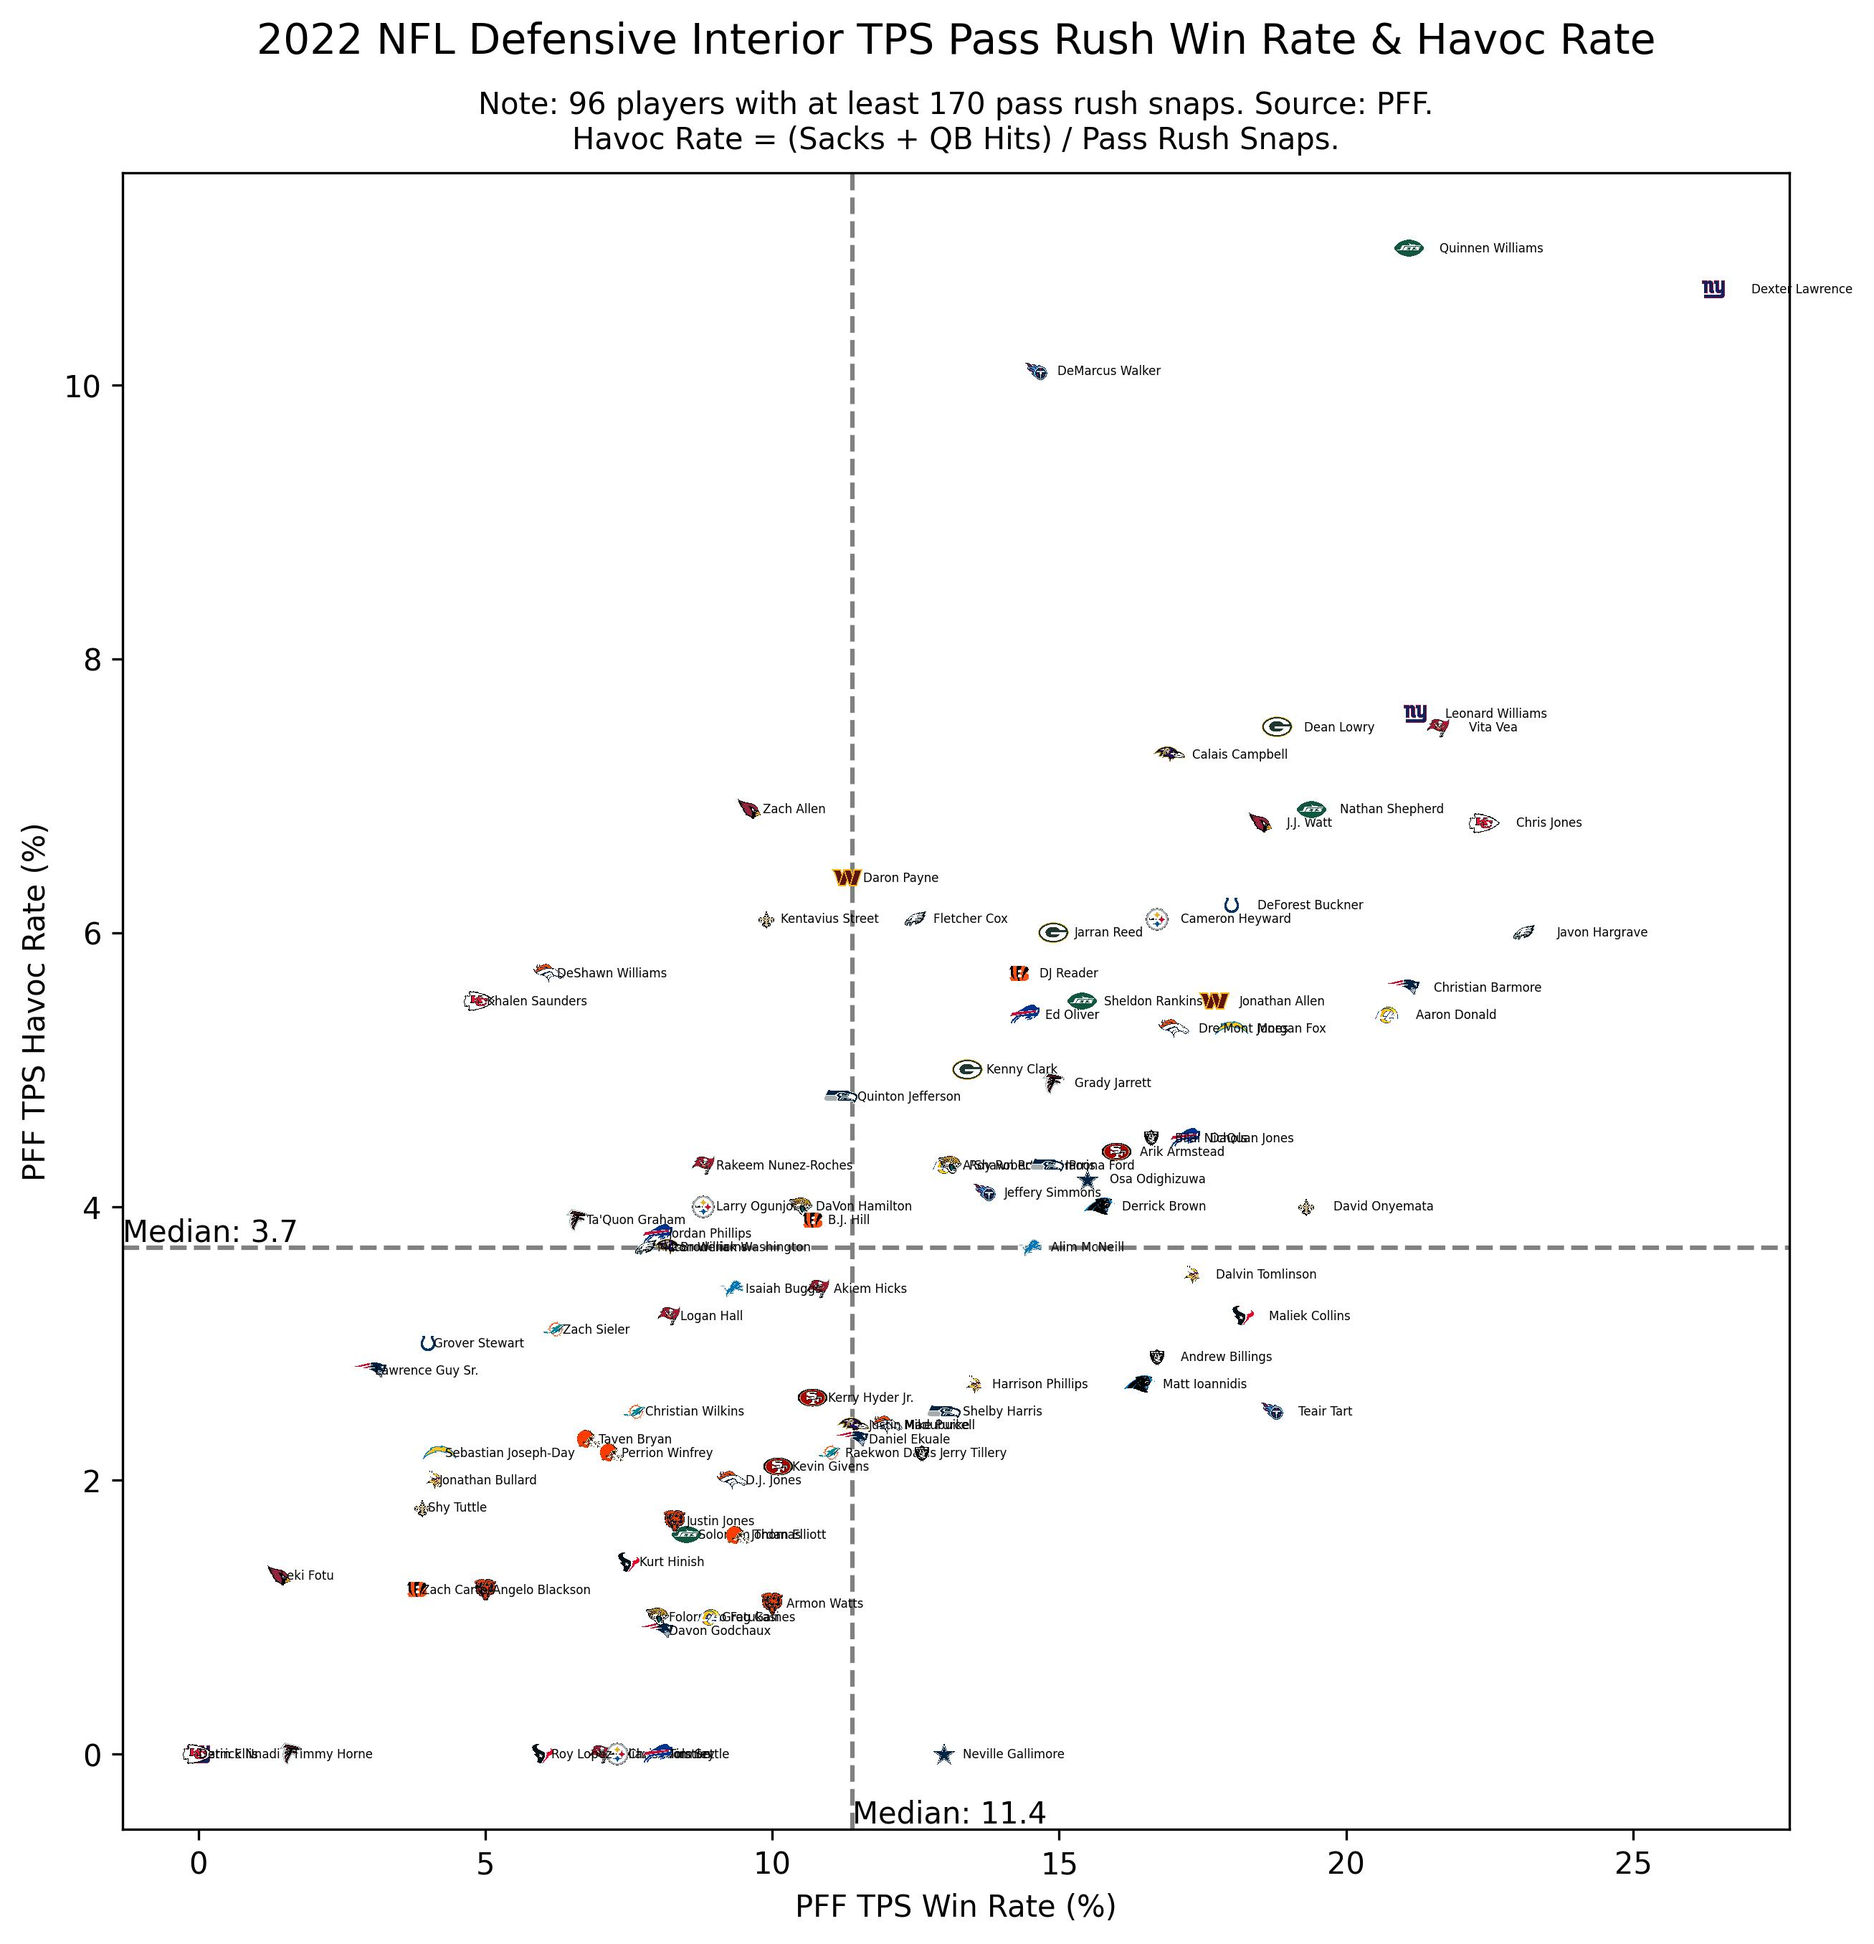
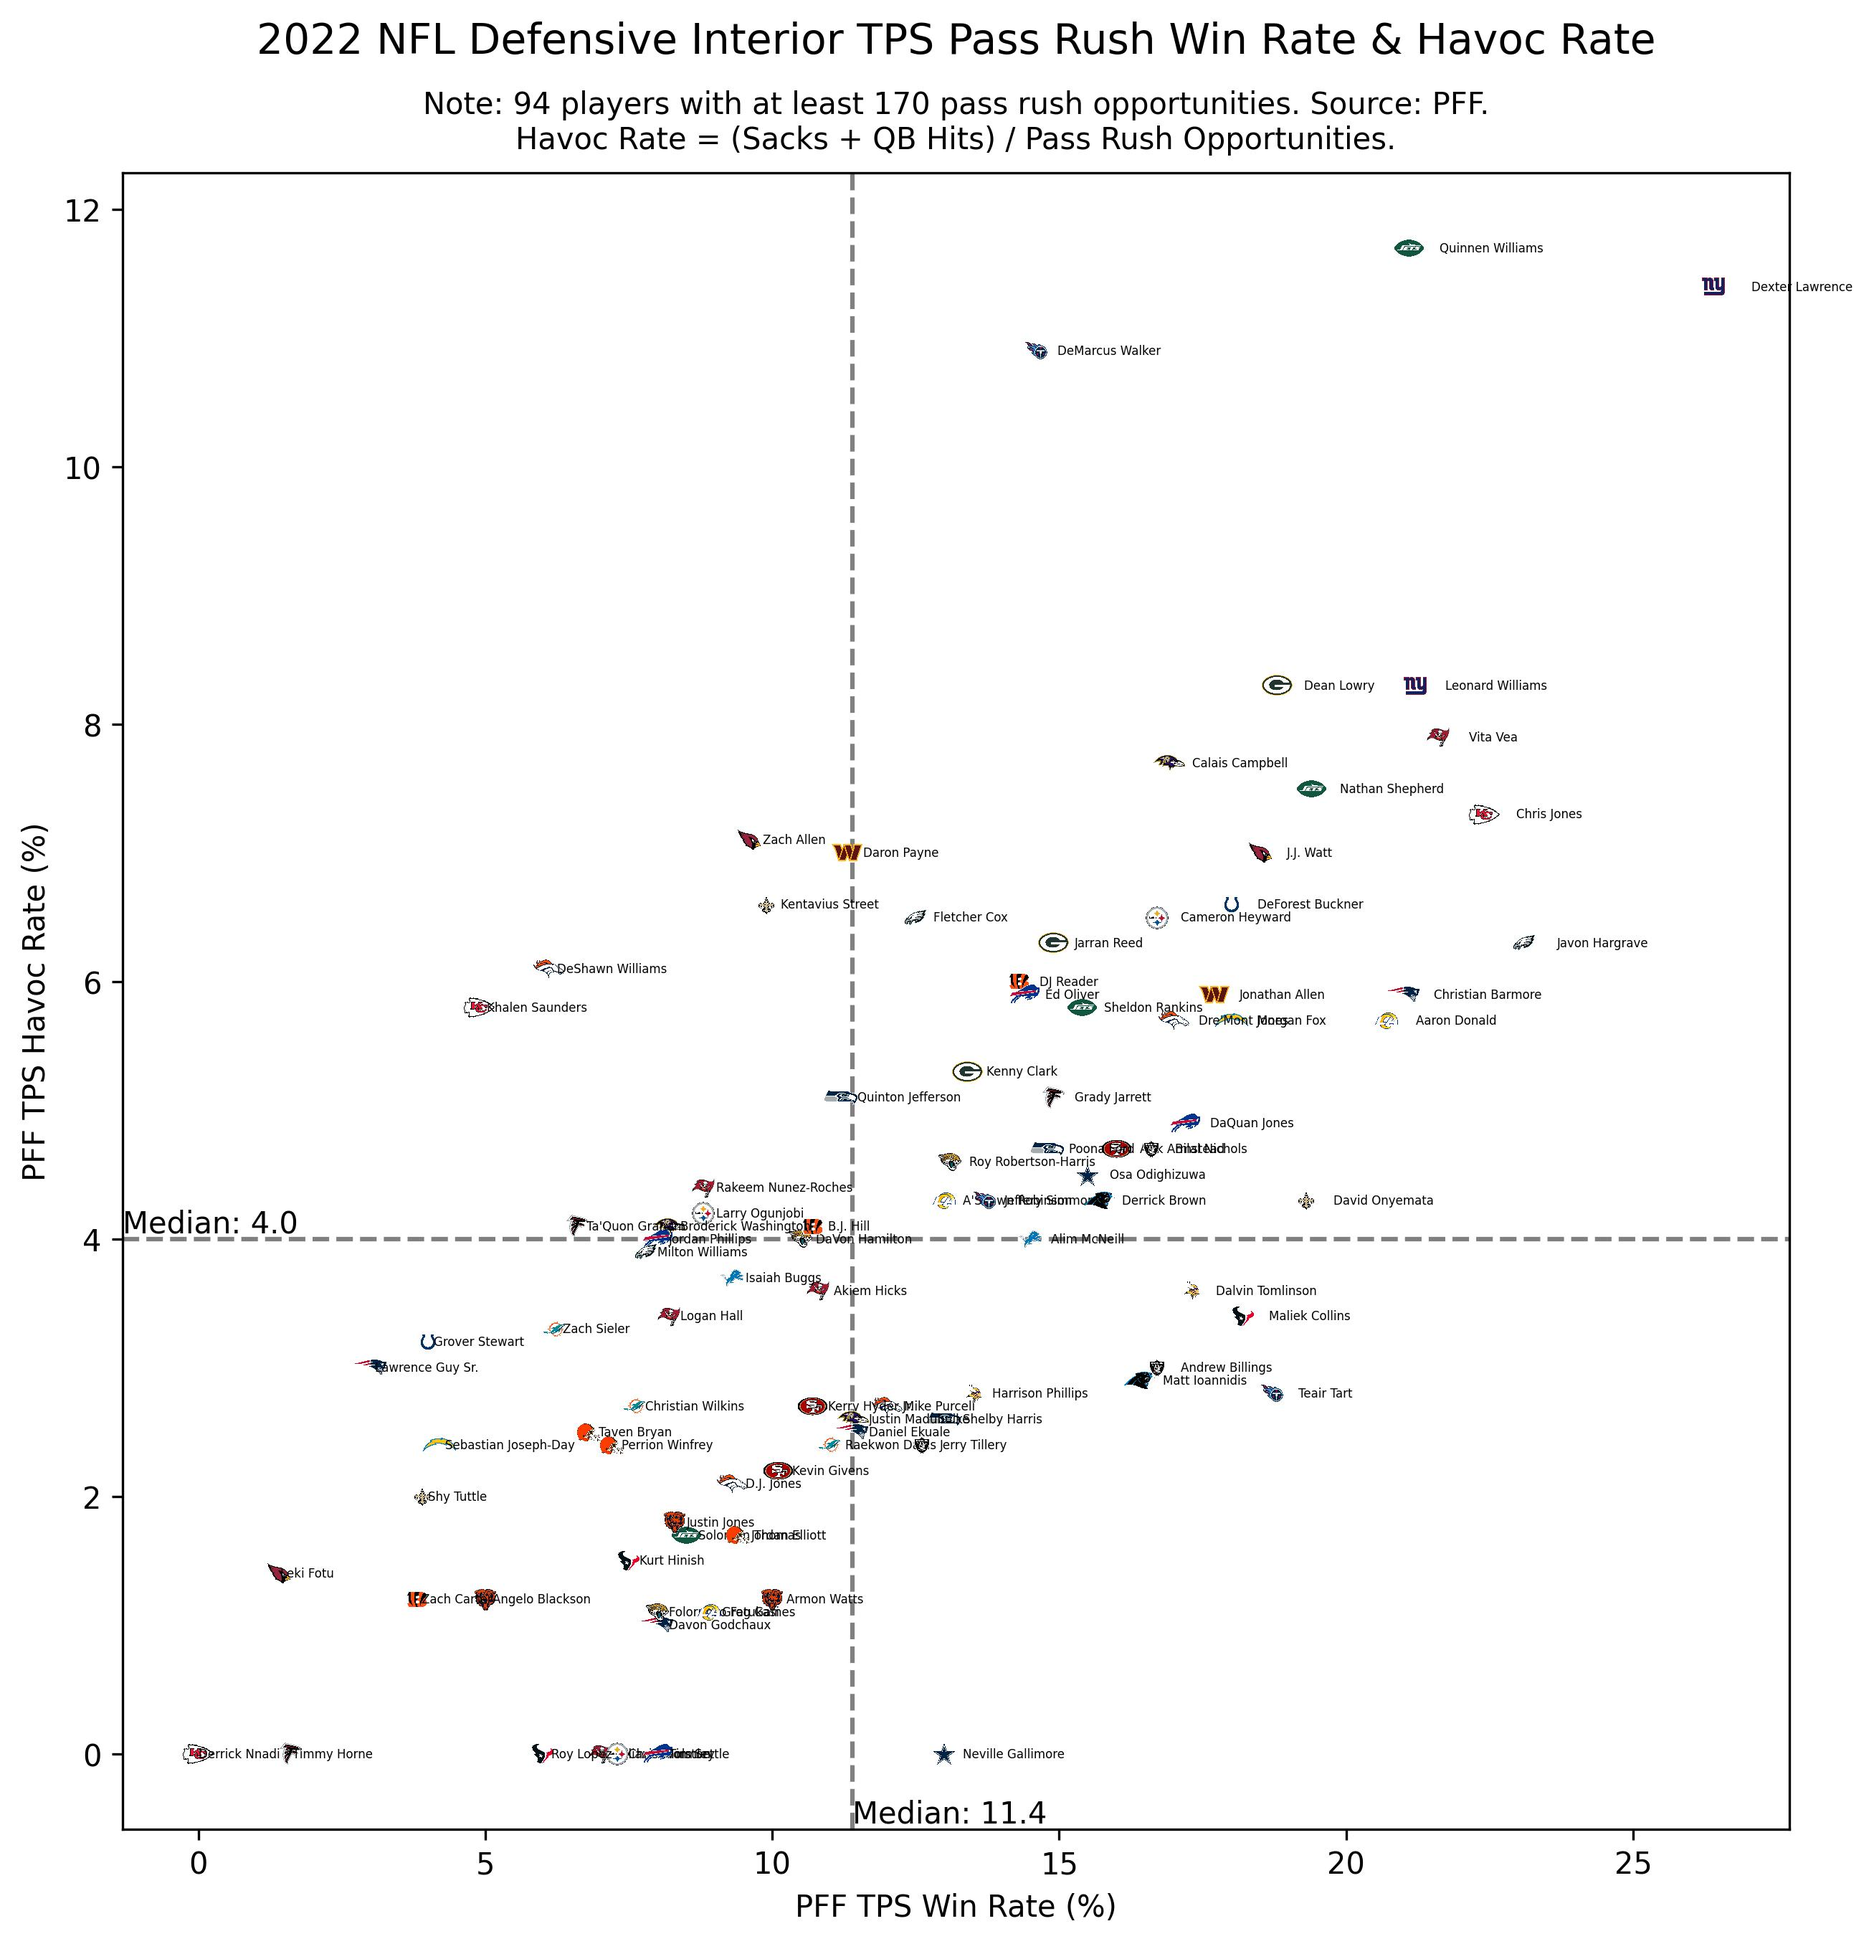
Switched to pass rush opps as denominator.

diff --git a/preprocessing/front_7.py b/preprocessing/front_7.py
@@ -18,23 +18,23 @@ def preprocess_front_7(season: int):
         positional_df = pass_rush_df[pass_rush_df['Position'] == position]
 
         positional_df['Havoc'] = positional_df['Sacks'] + positional_df['Hits']
-        positional_df['Havoc Rate'] = positional_df['Havoc'] / positional_df['PR Snaps']
+        positional_df['Havoc Rate'] = positional_df['Havoc'] / positional_df['PR Opp']
         positional_df['Havoc Rate'].fillna(inplace=True, value=0)
         positional_df['Havoc Rate'] *= 100
         positional_df['Havoc Rate'] = positional_df['Havoc Rate'].round(1)
 
-        positional_df['Pressure Rate'] = positional_df['Pressures'] / positional_df['PR Snaps']
+        positional_df['Pressure Rate'] = positional_df['Pressures'] / positional_df['PR Opp']
         positional_df['Pressure Rate'].fillna(inplace=True, value=0)
         positional_df['Pressure Rate'] *= 100
         positional_df['Pressure Rate'] = positional_df['Pressure Rate'].round(1)
 
         positional_df['TPS Havoc'] = positional_df['TPS Sacks'] + positional_df['TPS Hits']
-        positional_df['TPS Havoc Rate'] = positional_df['TPS Havoc'] / positional_df['TPS PR Snaps']
+        positional_df['TPS Havoc Rate'] = positional_df['TPS Havoc'] / positional_df['TPS PR Opp']
         positional_df['TPS Havoc Rate'].fillna(inplace=True, value=0)
         positional_df['TPS Havoc Rate'] *= 100
         positional_df['TPS Havoc Rate'] = positional_df['TPS Havoc Rate'].round(1)
 
-        positional_df['TPS Pressure Rate'] = positional_df['TPS Pressures'] / positional_df['TPS PR Snaps']
+        positional_df['TPS Pressure Rate'] = positional_df['TPS Pressures'] / positional_df['TPS PR Opp']
         positional_df['TPS Pressure Rate'].fillna(inplace=True, value=0)
         positional_df['TPS Pressure Rate'] *= 100
         positional_df['TPS Pressure Rate'] = positional_df['TPS Pressure Rate'].round(1)

diff --git a/scatter_plots/pass_rush.py b/scatter_plots/pass_rush.py
@@ -12,7 +12,7 @@ name_size = 4
 plt.figure(figsize=(10, 10))
 
 
-def plot_metrics(season: int, position: str, snaps_threshold: int,
+def plot_metrics(season: int, position: str, opp_threshold: int,
                  x_metric: str, y_metric: str, x_rate: bool = True, y_rate: bool = True,
                  use_tps: bool = True, extra_note: str = ''):
     if position not in FRONT_7_NAMES.keys():
@@ -22,7 +22,7 @@ def plot_metrics(season: int, position: str, snaps_threshold: int,
     pass_rush_df_dict = pd.read_excel(pass_rush_path, sheet_name=None)
 
     pass_rush_df = pass_rush_df_dict[position].dropna()
-    pass_rush_df = pass_rush_df[pass_rush_df['PR Snaps'] >= snaps_threshold]
+    pass_rush_df = pass_rush_df[pass_rush_df['PR Opp'] >= opp_threshold]
     if len(pass_rush_df) <= 0:
         return
 
@@ -55,7 +55,7 @@ def plot_metrics(season: int, position: str, snaps_threshold: int,
     title = f"{season} NFL {FRONT_7_NAMES[position]} {tps_suffix}Pass Rush {x_metric} & {y_metric}"
     plt.title(title, fontsize=14, pad=40)
 
-    note = f"players with at least {snaps_threshold} pass rush snaps. Source: PFF."
+    note = f"players with at least {opp_threshold} pass rush opportunities. Source: PFF."
     if len(extra_note) > 0:
         note += f'\n{extra_note}'
 

diff --git a/utils/renamers.py b/utils/renamers.py
@@ -17,6 +17,9 @@ def rename_pass_rush_columns(columns: list):
         if 'Snap Counts Pass Rush' in renamed_col:
             renamed_col = renamed_col.replace('Snap Counts Pass Rush', 'PR Snaps')
 
+        if 'Pass Rush Opp' in renamed_col:
+            renamed_col = renamed_col.replace('Pass Rush Opp', 'PR Opp')
+
         if 'Pass Rush Win Rate' in renamed_col:
             renamed_col = renamed_col.replace('Pass Rush Win Rate', 'Win Rate')
 

diff --git a/config.py b/config.py
@@ -20,4 +20,4 @@ TEAMS = [
 
 FRONT_7_NAMES = {'DI': 'Defensive Interior', 'ED': 'Edge', 'LB': 'Linebacker'}
 
-HAVOC_NOTE = 'Havoc Rate = (Sacks + QB Hits) / Pass Rush Snaps.'
+HAVOC_NOTE = 'Havoc Rate = (Sacks + QB Hits) / Pass Rush Opportunities.'
